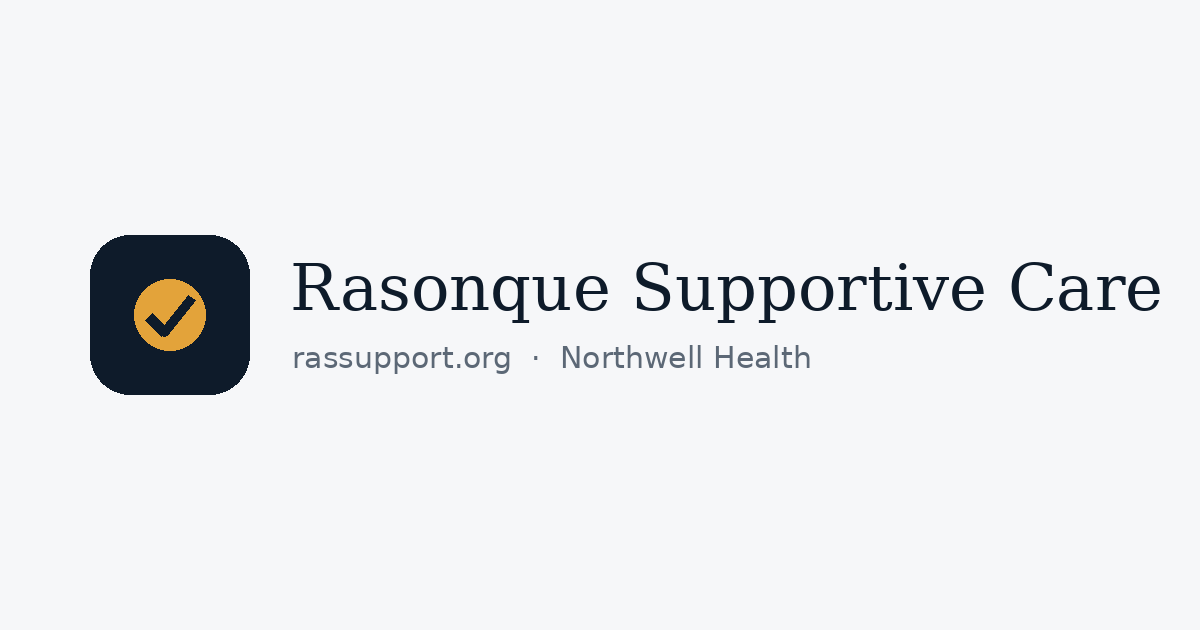
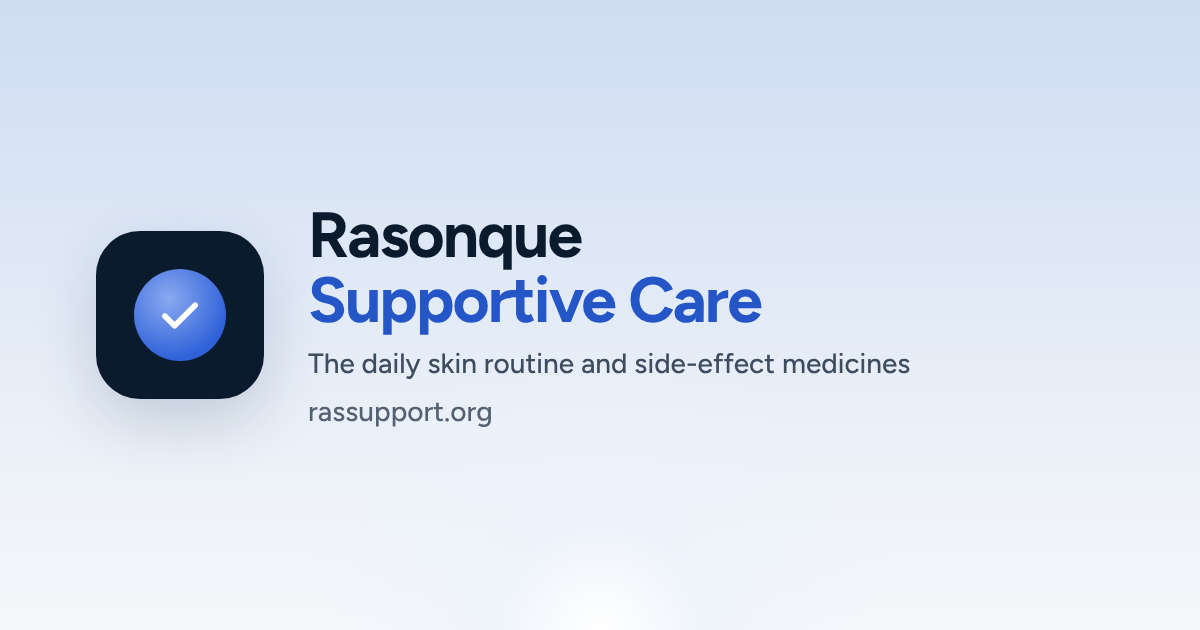
Remove Northwell mentions and all contact features
- Northwell removed from the About page, share description and README; new share image without it
- Removed the "Call care team" button, the Call screen and the saved care-team number
- "Call us" buttons on symptom screens are now plain warnings with no link
  ("Severe, lasting, or getting worse? Contact your care team.")
- Caregivers and Privacy text updated to match

Claude-Session: https://claude.ai/code/session_0169BRtgCd4ENHB5qQs8gWZw

diff --git a/index.html b/index.html
@@ -9,7 +9,7 @@
 <meta name="theme-color" content="#CFDDF2" media="(prefers-color-scheme: light)">
 <meta name="theme-color" content="#0F1B33" media="(prefers-color-scheme: dark)">
 <meta property="og:title" content="Rasonque Supportive Care">
-<meta property="og:description" content="The daily skin routine and side-effect medicines for people taking Rasonque, from your Northwell care team.">
+<meta property="og:description" content="The daily skin routine and side-effect medicines for people taking Rasonque.">
 <meta property="og:type" content="website">
 <meta property="og:url" content="https://rassupport.org/">
 <meta property="og:image" content="https://rassupport.org/img/og.png">
@@ -224,7 +224,7 @@
       <svg class="ic"><use href="#i-chev"/></svg>
     </a>
   </div>
-  <a class="strip" href="#call"><svg class="ic"><use href="#i-phone"/></svg><span>Severe, lasting, or getting worse? Call us.</span><svg class="ic chev"><use href="#i-chev"/></svg></a>
+  <p class="strip"><svg class="ic"><use href="#i-info"/></svg><span>Severe, lasting, or getting worse? Contact your care team.</span></p>
   <p class="note">Use exactly as your care team directed.</p>
 </section>
 
@@ -244,7 +244,7 @@
       <div class="medhead"><span class="ph xs"><img src="img/clotrimazole.jpg" alt="Clotrimazole troche bottle"><span class="cshadow"></span></span><span><b>Clotrimazole lozenge</b><small>Also called a "troche"</small></span></div>
       <div class="r"><span class="big acc">3×<small>a day</small></span><span>let it dissolve in your mouth, only if you have mouth sores</span></div>
     </div>
-    <a class="strip" href="#call"><svg class="ic"><use href="#i-phone"/></svg><span>Severe, lasting, or getting worse? Call us.</span><svg class="ic chev"><use href="#i-chev"/></svg></a>
+    <p class="strip"><svg class="ic"><use href="#i-info"/></svg><span>Severe, lasting, or getting worse? Contact your care team.</span></p>
     <p class="note">Use exactly as your care team directed.</p>
   </div>
 </section>
@@ -261,7 +261,7 @@
       <div class="r first"><span class="big acc">1–3<small>days</small></span><span>once a day, before your morning Rasonque dose</span></div>
       <div class="r"><span class="big it">After<small>day 3</small></span><span>only if you have nausea, up to 3 times a day</span></div>
     </div>
-    <a class="strip" href="#call"><svg class="ic"><use href="#i-phone"/></svg><span>Severe, lasting, or getting worse? Call us.</span><svg class="ic chev"><use href="#i-chev"/></svg></a>
+    <p class="strip"><svg class="ic"><use href="#i-info"/></svg><span>Severe, lasting, or getting worse? Contact your care team.</span></p>
     <p class="note">Use exactly as your care team directed.</p>
   </div>
 </section>
@@ -280,7 +280,7 @@
       <div class="r"><span class="big it">Stop</span><span>after 12 hours with no diarrhea</span></div>
       <div class="r"><span class="big">16 mg</span><span>is the most in 24 hours</span></div>
     </div>
-    <a class="strip" href="#call"><svg class="ic"><use href="#i-phone"/></svg><span>More than 3 liquid stools in a day? Call us.</span><svg class="ic chev"><use href="#i-chev"/></svg></a>
+    <p class="strip"><svg class="ic"><use href="#i-info"/></svg><span>More than 3 liquid stools in a day? Contact your care team.</span></p>
     <p class="note">Use exactly as your care team directed.</p>
   </div>
 </section>
@@ -294,7 +294,7 @@
     <figure class="sev moderate"><div class="sev-ph"><svg class="ic"><use href="#i-image"/></svg>Photo coming soon</div><figcaption><i aria-hidden="true"></i>Moderate skin rash</figcaption></figure>
     <figure class="sev severe"><div class="sev-ph"><svg class="ic"><use href="#i-image"/></svg>Photo coming soon</div><figcaption><i aria-hidden="true"></i>Severe skin rash</figcaption></figure>
     <p class="note">The dermatology team is preparing these photos and what to do for each.</p>
-    <a class="strip" href="#call"><svg class="ic"><use href="#i-phone"/></svg><span>Severe, lasting, or getting worse? Call us.</span><svg class="ic chev"><use href="#i-chev"/></svg></a>
+    <p class="strip"><svg class="ic"><use href="#i-info"/></svg><span>Severe, lasting, or getting worse? Contact your care team.</span></p>
   </div>
 </section>
 
@@ -335,7 +335,7 @@
     <div class="about">
       <h2>What this site is</h2>
       <p>This is a supportive care website for patients on RAS inhibitors. The intention of this website is to help guide you through what medicines to take and when to prevent and manage toxicities.</p>
-      <p>It follows the Northwell Health patient guide <i>Supportive Medications for Rasonque (daraxonrasib)</i>, version 1.11, September 2026. <a href="#guide">Read the guide</a></p>
+      <p>It follows the patient guide <i>Supportive Medications for Rasonque (daraxonrasib)</i>, version 1.11, September 2026. <a href="#guide">Read the guide</a></p>
     </div>
     <div class="about" id="disclaimer">
       <h2>Medical disclaimer</h2>
@@ -344,54 +344,15 @@
         <li>Always follow the instructions your care team gives you. If they are different from what this site says, follow your care team.</li>
         <li>Your medicines, doses and schedule may not match what is shown here. Do not start, stop or change a medicine or its dose without talking to your care team first.</li>
         <li>Using this site does not make you a patient of any doctor, clinic or hospital.</li>
-        <li>Call your care team if symptoms are severe, don't go away, or get worse.</li>
+        <li>Contact your care team if symptoms are severe, don't go away, or get worse.</li>
         <li><b>If you think you are having a medical emergency, call 911 or go to the nearest emergency room.</b></li>
       </ul>
     </div>
     <div class="about">
       <h2>Privacy</h2>
-      <p>There are no accounts, cookies, ads or tracking. Your checklist and any phone number you save are kept in this browser on this device only. They are never sent anywhere.</p>
+      <p>There are no accounts, cookies, ads or tracking. Your checklist is kept in this browser on this device only. It is never sent anywhere.</p>
     </div>
   </div>
-</section>
-
-<!-- CALL -->
-<section class="page dark" id="page-call" data-page hidden>
-  <div class="stars" aria-hidden="true"><i></i><i></i><i></i><i></i><i></i></div>
-  <div class="bar"><a class="circ" href="#home" aria-label="Back to home"><svg class="ic"><use href="#i-back"/></svg></a></div>
-  <div class="intro inset" style="padding-top:.75rem">
-    <span class="eyebrow">Day or night</span>
-    <h1>Call your care team <i>if…</i></h1>
-  </div>
-  <div class="reasons inset">
-    <p><span>Symptoms are <b>severe</b>, <b>don't go away</b>, or <b>get worse</b>.</span></p>
-    <p><span><b>More than 3 liquid stools</b> in a day.</span></p>
-    <p><span>You have <b>any questions or concerns</b>.</span></p>
-  </div>
-  <div class="card light">
-    <div class="team" id="teamEmpty">
-      <span class="eyebrow">Your care team</span>
-      <p class="team-h">Add their phone number</p>
-      <p class="team-p">So you can call with one tap. It stays on this phone only and is never sent anywhere.</p>
-      <button class="btn" type="button" id="teamAdd"><svg class="ic"><use href="#i-edit"/></svg>Add phone number</button>
-      <p class="team-s">It's on your appointment card or your clinic's paperwork. Your nurse can type it in for you.</p>
-    </div>
-    <form class="team" id="teamForm" hidden novalidate>
-      <span class="eyebrow">Your care team</span>
-      <label for="telMain"><span>Phone number</span><input class="tel-in" id="telMain" type="tel" inputmode="tel" autocomplete="off" maxlength="24"></label>
-      <label for="telAfter"><span>After hours <em>(optional)</em></span><input class="tel-in" id="telAfter" type="tel" inputmode="tel" autocomplete="off" maxlength="24"></label>
-      <p class="code-err" id="telErr" hidden>Enter a phone number with at least 7 digits.</p>
-      <button class="btn" type="submit">Save on this phone</button>
-      <button class="btn quiet" type="button" id="teamCancel">Cancel</button>
-    </form>
-    <div class="team" id="teamSaved" hidden>
-      <div class="between" style="align-items:center"><span class="eyebrow">Your care team</span><button class="textbtn" type="button" id="teamChange">Change</button></div>
-      <span class="num-big" id="teamNum"></span>
-      <a class="btn" id="teamCall" href="tel:"><svg class="ic"><use href="#i-phone"/></svg>Call now</a>
-      <div class="afterh" id="teamAfterRow"><span>After hours</span><a id="teamAfter" href="tel:"></a></div>
-    </div>
-  </div>
-  <p class="fine inset"><b>Emergency?</b> Call 911.</p>
 </section>
 
 <!-- CAREGIVERS -->
@@ -407,7 +368,7 @@
       <li>Line up everything in the order it goes on: the antibiotic pill, the spray, two creams, moisturizer and sunscreen.</li>
       <li>Apply the triamcinolone cream and moisturizer to the back and trunk.</li>
       <li>Set two reminders a day, morning and evening.</li>
-      <li>Know <a href="#call">when to call the care team</a>.</li>
+      <li>Know the warning signs: symptoms that are severe, don't go away or get worse, and more than 3 liquid stools in a day.</li>
     </ul>
   </div>
   <div class="video"><span class="play"><svg class="ic"><use href="#i-play"/></svg></span><p><b>Video: applying cream to someone's back</b><br>Coming soon.</p></div>
@@ -416,7 +377,7 @@
 
 </main>
 
-<div class="fab" id="fab"><a href="#call"><span class="ph-ico"><svg class="ic"><use href="#i-phone"/></svg></span>Call care team</a></div>
+
 </div>
 <script src="js/app.js"></script>
 </body>

diff --git a/css/site.css b/css/site.css
@@ -1,7 +1,7 @@
 /* v6 "Clinical Blue". A cool sky at the top of every screen follows the routine you are on: clear blue for
-   the morning routine, a soft indigo for the evening one, a deep blue night on Call. It always fades to paper before small text
+   the morning routine and a soft indigo for the evening one. It always fades to paper before small text
    sits on it. One typeface, Figtree, in sentence case throughout. Blue means progress. There is no tab bar: Home links to
-   everything, inner screens have a back button, and a terracotta "Call care team" button sits in the bottom corner.
+   everything and inner screens have a back button. The site has no contact features: no call button, no phone numbers.
    v8: Home introduces the site on the first visit, then greets; the routine card carries Today and the other routine;
    one row leads to Symptoms (rash first); one Learn card holds the how-to video, the patient guide and caregivers. */
 :root{
@@ -20,7 +20,6 @@
   --pulse-bg:#EAF0FC; --lang-edge:rgba(11,27,46,.14); --lang-bg:rgba(255,255,255,.5);
   --ink2:#3E4C60; --ghost-bg:rgba(255,255,255,.6); --ghost-edge:rgba(11,27,46,.12); --quiet-bg:#F1F4F9; --quiet-ink:#546172;
   --ph-bg:linear-gradient(135deg,#F4ECE6 0%,#EADCD2 100%); --ph-ink:#6B5242; --ph-edge:rgba(154,107,30,.2);
-  --call:#B4473A; --call-shadow:0 14px 30px rgba(180,71,58,.32),0 2px 6px rgba(180,71,58,.2);
   --stage-glow:#EAF1FC; --stage-shadow:0 24px 60px rgba(30,50,90,.12),0 2px 6px rgba(30,50,90,.05);
   --home-am:linear-gradient(180deg,#CFDDF2 0%,#DCE6F5 30%,#EAF0F8 62%,#F5F7FA 100%);
   --home-pm:linear-gradient(180deg,#D5D6EE 0%,#E1E2F2 30%,#ECEDF6 62%,#F5F7FA 100%);
@@ -47,7 +46,6 @@
     --pulse-bg:rgba(111,151,242,.16); --lang-edge:rgba(255,255,255,.18); --lang-bg:rgba(255,255,255,.06);
     --ink2:#C3CCDA; --ghost-bg:rgba(255,255,255,.06); --ghost-edge:rgba(255,255,255,.16); --quiet-bg:rgba(255,255,255,.08); --quiet-ink:#A3AEC0;
     --ph-bg:rgba(255,255,255,.06); --ph-ink:#B8C2D2; --ph-edge:rgba(255,255,255,.14);
-    --call:#B4473A; --call-shadow:0 14px 30px rgba(0,0,0,.45);
     --stage-glow:#EAF1FC; --stage-shadow:0 24px 60px rgba(0,0,0,.35);
     --home-am:linear-gradient(180deg,#0F1B33 0%,#16264A 34%,#1E3260 58%,#16233F 82%,#0D1524 100%);
     --home-pm:linear-gradient(180deg,#121535 0%,#1C1F4C 34%,#282A60 58%,#191B3E 82%,#0D1524 100%);
@@ -73,7 +71,6 @@
   --pulse-bg:rgba(111,151,242,.16); --lang-edge:rgba(255,255,255,.18); --lang-bg:rgba(255,255,255,.06);
     --ink2:#C3CCDA; --ghost-bg:rgba(255,255,255,.06); --ghost-edge:rgba(255,255,255,.16); --quiet-bg:rgba(255,255,255,.08); --quiet-ink:#A3AEC0;
     --ph-bg:rgba(255,255,255,.06); --ph-ink:#B8C2D2; --ph-edge:rgba(255,255,255,.14);
-    --call:#B4473A; --call-shadow:0 14px 30px rgba(0,0,0,.45);
   --stage-glow:#EAF1FC; --stage-shadow:0 24px 60px rgba(0,0,0,.35);
   --home-am:linear-gradient(180deg,#0F1B33 0%,#16264A 34%,#1E3260 58%,#16233F 82%,#0D1524 100%);
   --home-pm:linear-gradient(180deg,#121535 0%,#1C1F4C 34%,#282A60 58%,#191B3E 82%,#0D1524 100%);
@@ -333,8 +330,7 @@ main{flex:1;display:flex;flex-direction:column}
 .medhead{display:flex;align-items:center;gap:.875rem;padding:1rem 0 .875rem}
 .medhead b{display:block;font-size:1.125rem;line-height:1.3;font-weight:600}
 .medhead small{display:block;color:var(--muted);font-size:.875rem}
-.strip{background:var(--danger-soft);color:var(--danger);border-radius:1.5rem;padding:1.125rem 1.25rem;display:flex;align-items:center;gap:.875rem;text-decoration:none;font-weight:600;line-height:1.35}
-.strip .chev{margin-left:auto}
+.strip{margin:0;background:var(--danger-soft);color:var(--danger);border-radius:1.5rem;padding:1rem 1.25rem;display:flex;align-items:center;gap:.875rem;font-weight:600;line-height:1.35}
 
 /* Call: a night sky */
 .page.dark{position:relative;color:#FFFFFF;gap:1.6rem}
@@ -394,19 +390,6 @@ main{flex:1;display:flex;flex-direction:column}
 .about li + li{margin-top:.45em}
 .about a,.note a{color:var(--accent-text);font-weight:600;text-decoration:none}
 .about a:hover,.note a:hover{text-decoration:underline}
-/* Call: the care team's number, kept on this phone only */
-.team{display:flex;flex-direction:column;gap:.875rem}
-.team[hidden]{display:none}
-.team-h{font-family:var(--display);font-weight:700;font-size:1.375rem;line-height:1.15;letter-spacing:-.02em}
-.team-p{font-size:.9375rem;line-height:1.45;color:#546172}
-.team-s{font-size:.8125rem;line-height:1.4;color:#546172}
-.team label{font-weight:600;font-size:.875rem;display:flex;flex-direction:column;gap:.375rem}
-.team label em{font-style:normal;font-weight:500;color:#546172}
-.tel-in{height:3.25rem;border-radius:1rem;border:0;box-shadow:inset 0 0 0 2px #C7D0DC;background:#FFFFFF;color:#0B1B2E;font-family:var(--body);font-size:1.25rem;font-weight:600;padding:0 1rem;width:100%;font-variant-numeric:tabular-nums}
-.tel-in:focus{outline:none;box-shadow:inset 0 0 0 2px #2F62D9}
-.card.light .btn.quiet{background:transparent;color:#546172;box-shadow:none}
-.textbtn{border:0;background:transparent;color:#2456C8;font:inherit;font-weight:600;font-size:.875rem;cursor:pointer;padding:.5rem 0;min-height:2.75rem}
-.afterh a{color:#0B1B2E;font-weight:700;font-size:1rem;text-decoration:none;font-variant-numeric:tabular-nums}
 
 /* Caregivers and video placeholders */
 .card ul{margin:0;padding-left:1.2em}
@@ -424,12 +407,3 @@ main{flex:1;display:flex;flex-direction:column}
 .code-err{color:var(--danger);font-size:.875rem;font-weight:700}
 .proto-note{color:var(--muted);font-size:.875rem;line-height:1.45;margin-top:auto;padding:0 .25rem}
 
-/* Call button: terracotta, bottom corner of the column, on every screen but Routine, Call and Welcome.
-   It is sticky, so it floats while you scroll and takes its own space at the end of the page. Text scrolling under it fades
-   into the page colour rather than peeking out around the button. */
-.fab{position:sticky;bottom:0;z-index:5;display:flex;justify-content:flex-end;padding:1.25rem max(16px,env(safe-area-inset-right,0px)) max(24px,calc(env(safe-area-inset-bottom,0px) + 12px)) 16px;pointer-events:none;background:linear-gradient(180deg,transparent 0%,var(--bg) 58%)}
-.fab a{pointer-events:auto;display:inline-flex;align-items:center;gap:.625rem;height:3.5rem;padding:0 1.375rem 0 .5rem;border-radius:1.75rem;background:var(--call);color:#FFFFFF;text-decoration:none;font-weight:600;font-size:1rem;box-shadow:var(--call-shadow);transition:transform .2s,filter .2s}
-.fab .ph-ico{width:2.5rem;height:2.5rem;border-radius:50%;background:rgba(255,255,255,.18);display:flex;align-items:center;justify-content:center}
-.fab .ph-ico svg.ic{width:1.25rem;height:1.25rem}
-@media (hover:hover){.fab a:hover{filter:brightness(1.06);transform:translateY(-1px)}}
-.fab a:focus-visible{outline-color:var(--fg);outline-offset:3px}

diff --git a/js/app.js b/js/app.js
@@ -165,31 +165,6 @@
   $('hWelcome').hidden = !firstVisit; $('hGreet').hidden = firstVisit;
   $('introFull').hidden = !firstVisit; $('introTag').hidden = firstVisit;
 
-  /* ---------- Call: the care team's number, saved in this browser only ---------- */
-  var TEAM = 'rasonque-careteam-v1';
-  function digits(v){ return (v || '').replace(/[^0-9+]/g, ''); }
-  function loadTeam(){ try{ var t = JSON.parse(localStorage.getItem(TEAM) || 'null'); return t && t.main ? t : null; }catch(e){ return null; } }
-  function showTeam(mode){
-    var t = loadTeam();
-    if(!mode) mode = t ? 'saved' : 'empty';
-    $('teamEmpty').hidden = mode !== 'empty'; $('teamForm').hidden = mode !== 'form'; $('teamSaved').hidden = mode !== 'saved';
-    if(mode === 'saved' && t){
-      $('teamNum').textContent = t.main; $('teamCall').setAttribute('href', 'tel:' + digits(t.main));
-      $('teamAfterRow').hidden = !t.after;
-      if(t.after){ $('teamAfter').textContent = t.after; $('teamAfter').setAttribute('href', 'tel:' + digits(t.after)); }
-    }
-    if(mode === 'form'){ $('telMain').value = t ? t.main : ''; $('telAfter').value = t && t.after ? t.after : ''; $('telErr').hidden = true; $('telMain').focus(); }
-  }
-  $('teamAdd').addEventListener('click', function(){ showTeam('form'); });
-  $('teamChange').addEventListener('click', function(){ showTeam('form'); });
-  $('teamCancel').addEventListener('click', function(){ showTeam(); });
-  $('teamForm').addEventListener('submit', function(e){
-    e.preventDefault();
-    var main = $('telMain').value.trim(), after = $('telAfter').value.trim();
-    if(digits(main).replace('+', '').length < 7){ $('telErr').hidden = false; $('telMain').focus(); return; }
-    try{ localStorage.setItem(TEAM, JSON.stringify({main: main, after: after})); }catch(err){}
-    showTeam(loadTeam() ? 'saved' : 'empty');
-  });
 
   /* ---------- Welcome / access code (prototype: any code works, nothing stored or sent) ---------- */
   var GATE = false; /* false on the public site; true in the study build, where codes will be real */
@@ -211,8 +186,7 @@
 
   /* ---------- Routing ---------- */
   var pages = toArr(document.querySelectorAll('[data-page]'));
-  var fab = $('fab');
-  var titles = {welcome:'Welcome', home:'Rasonque Supportive Care', routine:'Routine', today:'Today', symptoms:'Symptoms', rash:'Rash', mouth:'Mouth sores', nausea:'Nausea', diarrhea:'Diarrhea', video:'How-to video', guide:'Patient guide', about:'About this site', call:'Call your care team', caregivers:'For caregivers'};
+  var titles = {welcome:'Welcome', home:'Rasonque Supportive Care', routine:'Routine', today:'Today', symptoms:'Symptoms', rash:'Rash', mouth:'Mouth sores', nausea:'Nausea', diarrhea:'Diarrhea', video:'How-to video', guide:'Patient guide', about:'About this site', caregivers:'For caregivers'};
   var current = null;
   function route(){
     var id = (location.hash || '#home').slice(1);
@@ -220,15 +194,12 @@
     if(!entered && id !== 'welcome'){ pendingHash = '#' + id; id = 'welcome'; }
     if(entered && id === 'welcome') id = 'home';
     pages.forEach(function(p){ p.hidden = p.id !== 'page-' + id; });
-    fab.hidden = (id === 'routine' || id === 'call' || id === 'welcome');
     body.setAttribute('data-page', id);
-    body.classList.toggle('on-dark', id === 'call');
     if(id !== 'routine') body.classList.remove('done-view');
     document.title = id === 'home' ? titles.home : titles[id] + ' · Rasonque Supportive Care';
     if(id === 'routine' && current !== 'routine') enterRoutine();
     if(id === 'today') paintToday();
     if(id === 'home') paintHome();
-    if(id === 'call') showTeam();
     current = id;
     window.scrollTo(0, 0);
   }

diff --git a/README.md b/README.md
@@ -1,21 +1,20 @@
 # rassupport.org
 
 Patient-facing guide to the supportive-care medicines for Rasonque (daraxonrasib):
-the daily skin routine, rash, mouth sores, nausea, diarrhea, and when to call the care team.
+the daily skin routine, rash, mouth sores, nausea, and diarrhea.
 
-Content comes from the Northwell Health patient information guide
+Content comes from the patient information guide
 *Supportive Medications for Rasonque (daraxonrasib)*, v1.11 (9/8/26). No clinical
 content is added beyond that guide.
 
 ## What this is
 
 A static site. No accounts, no cookies, no analytics, no server. The daily checklist
-is kept in the visitor's own browser (`localStorage`) and clears each day. So is the care
-team's phone number if the patient saves one on the Call screen; it is never sent anywhere.
+is kept in the visitor's own browser (`localStorage`) and clears each day.
 
 - `index.html` — the whole app; screens are sections switched by URL hash
-  (`#home`, `#routine`, `#today`, `#symptoms`, `#rash`, `#mouth`, `#nausea`, `#diarrhea`, `#call`,
-  `#caregivers`, `#video`, `#guide`)
+  (`#home`, `#routine`, `#today`, `#symptoms`, `#rash`, `#mouth`, `#nausea`, `#diarrhea`,
+  `#caregivers`, `#video`, `#guide`, `#about`)
 - Home introduces the site on a visitor's first visit (Dr. King's wording), then greets them by
   time of day. Below the routine card: one row into Symptoms and a Learn card (how-to video,
   patient guide, caregivers). The globe button opens the patient guide.
@@ -26,8 +25,9 @@ team's phone number if the patient saves one on the Call screen; it is never sen
   screen follows the routine being shown: clear blue for morning, a soft indigo for evening
   ("Clinical Blue" palette; blue marks progress). Type is Figtree throughout, in sentence case.
 - No tab bar. Home links to everything (routine, today's checklist, the other routine, symptoms,
-  caregivers); inner screens have a back button; a terracotta "Call care team" button sits in the
-  bottom-right corner of every screen except the routine walkthrough and the Call screen itself.
+  caregivers); inner screens have a back button.
+- No contact features: no call button, phone numbers or Call screen. Warnings on the symptom
+  screens say to contact your care team, as plain text.
 - `css/site.css`, `js/app.js` — styles and behaviour
 - `img/` — product photos cropped from the printed guide
 - `guide/` — the patient information guide as a PDF (English, v1.11); translations go here too
@@ -40,7 +40,6 @@ team's phone number if the patient saves one on the Call screen; it is never sen
   the Rash screen shows labelled placeholders)
 - The how-to video (the Video screen shows "coming soon")
 - The guide's six translations (add each PDF under `guide/` and a row on the Guide screen)
-- The Call screen is deliberately institution-neutral: patients save their own care team's number
 - Access codes and usage analytics — these belong to the IRB-approved study build
 
 `js/app.js` has a `GATE` flag; set it to `true` to show the access-code screen.
